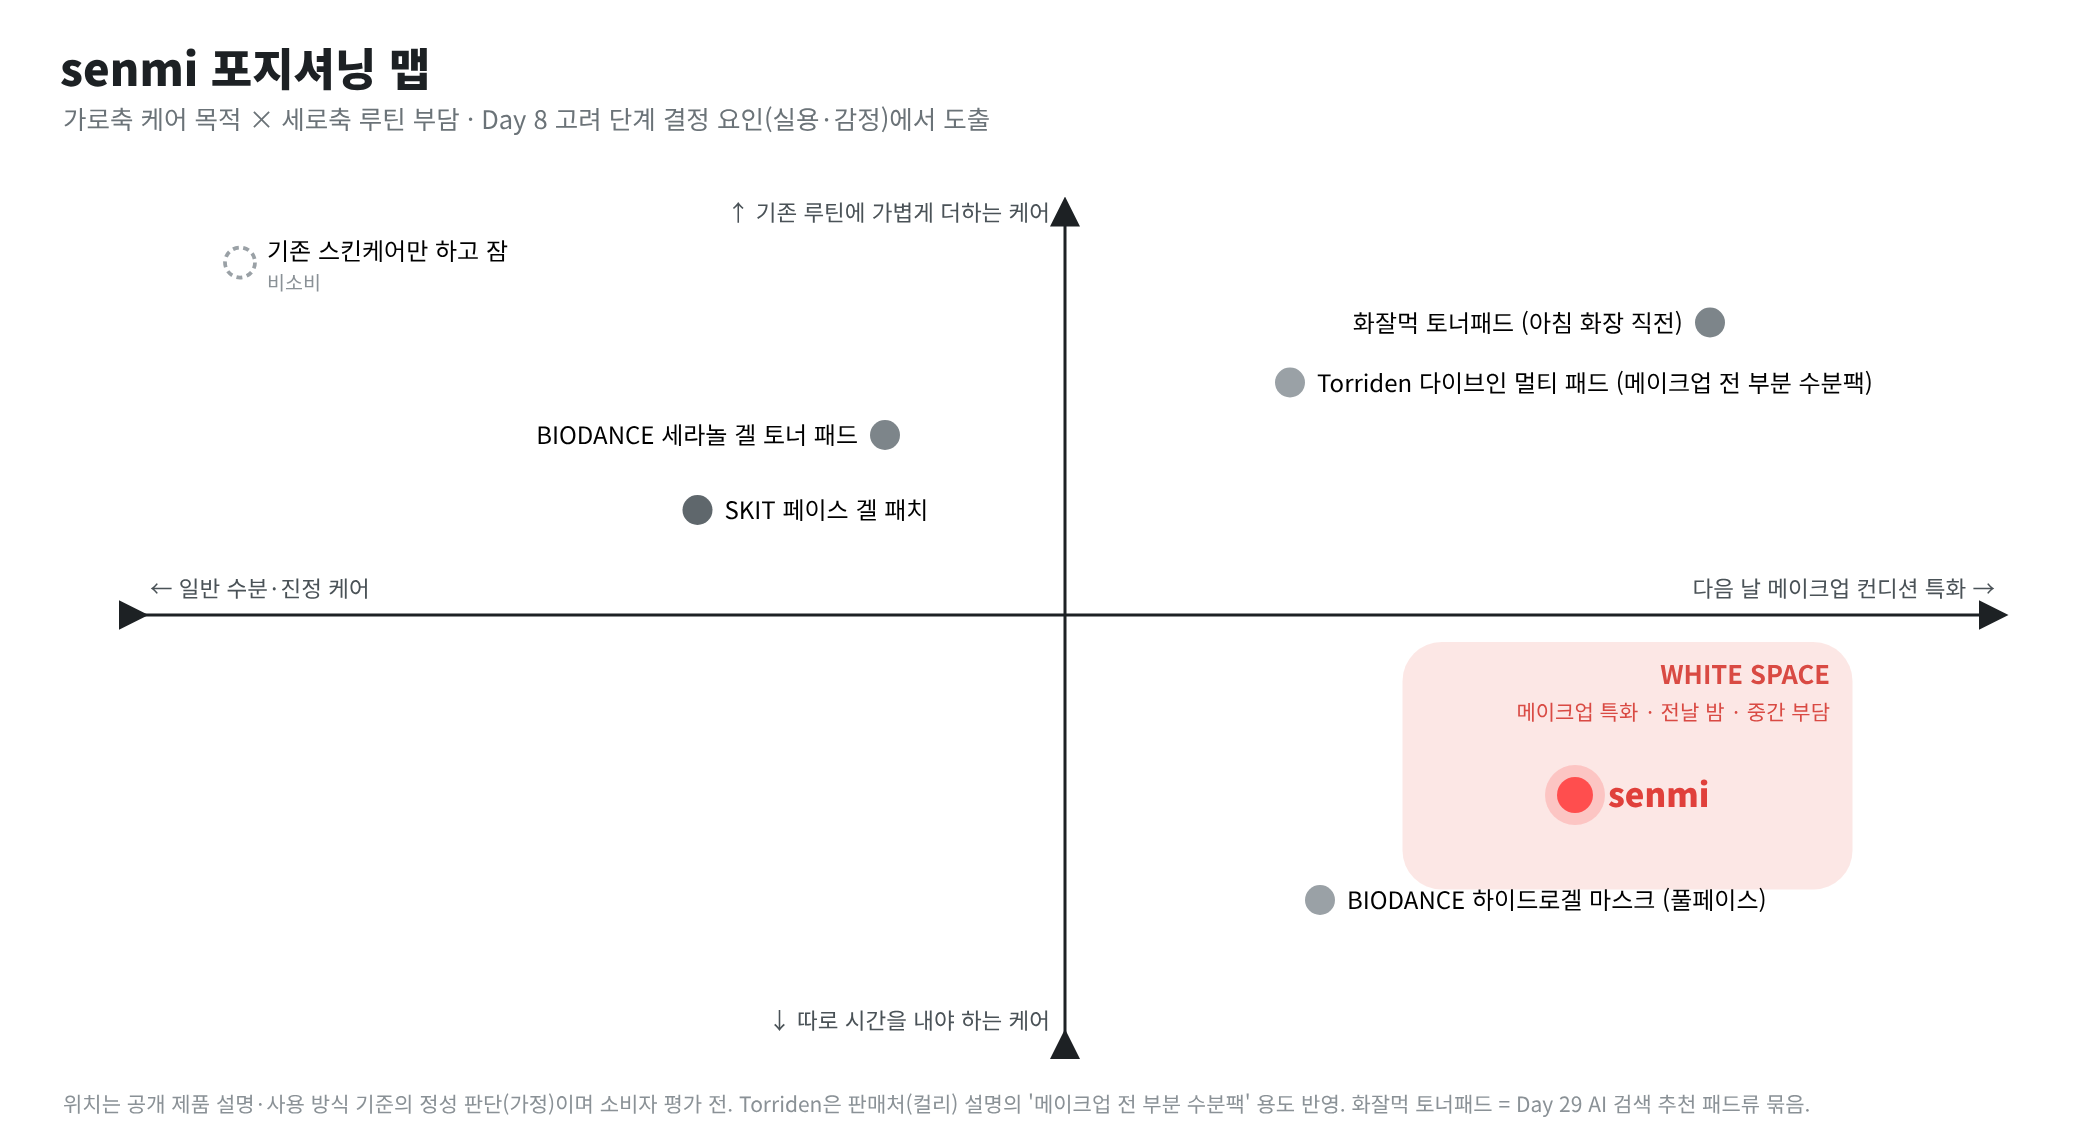
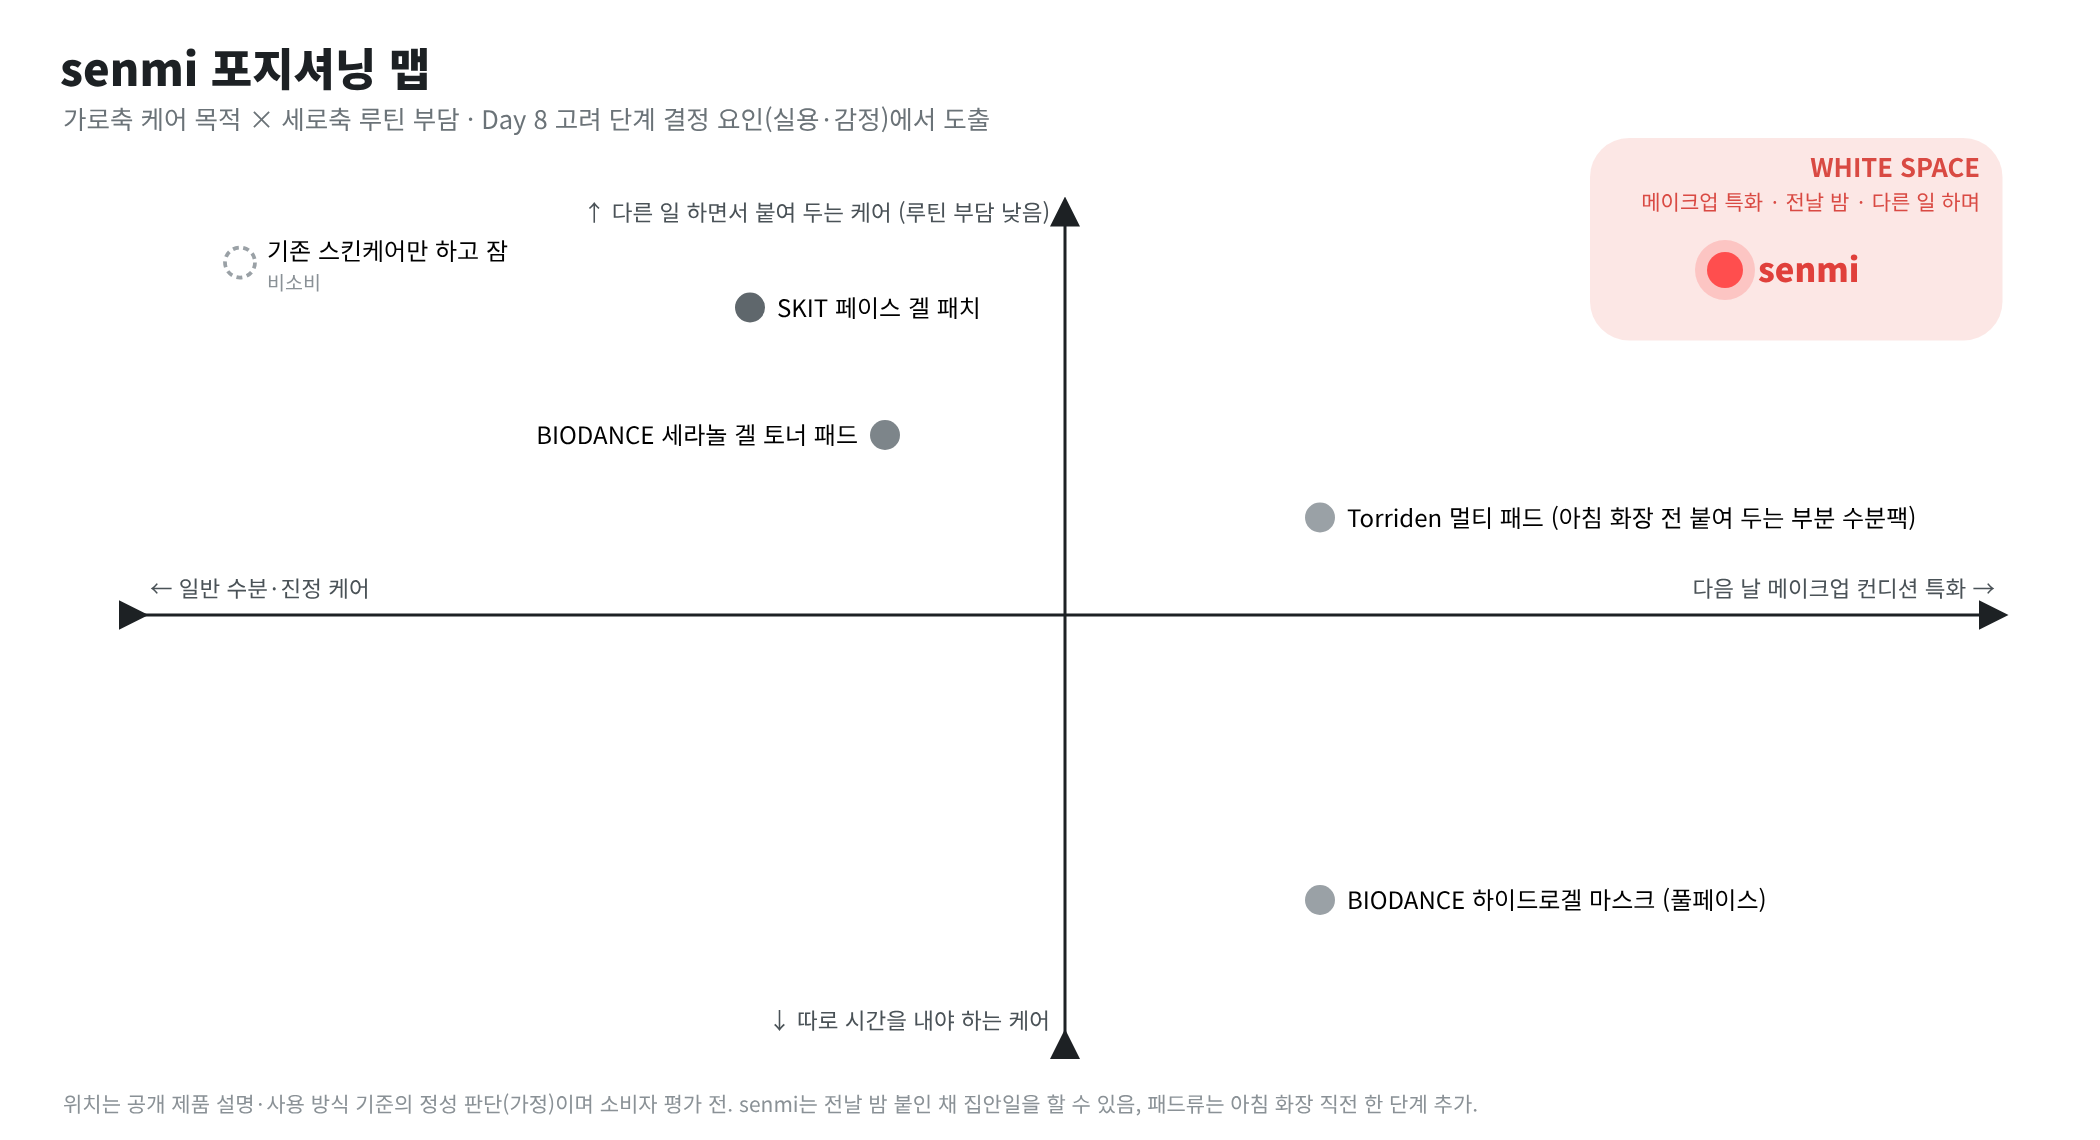
포지셔닝 맵 수정: senmi를 '다른 일 하면서 붙여 두는 케어'로, 화잘먹 토너패드 삭제
Claude-Session: https://claude.ai/code/session_01JFfxUvGL9TvTmYzRZbv8Pu

diff --git a/portfolio/index.html b/portfolio/index.html
@@ -75,7 +75,7 @@ th{background:#f5f6f7;font-weight:500}
 </div>
 <div class="row3">
  <div class="box s3"><b>결과</b><div>USP &quot;다음 날 화장 들뜸이 걱정되는 사람에게, 전날 밤 필요한 부위에만 붙여 아침 화장 전 수분 바탕을 미리 준비&quot; 확정 (고객 반응은 미측정)</div></div>
- <div class="box s3"><b>재분석</b><div>경쟁사를 맵에 올리니 화잘먹 패드·토리든이 &#x27;메이크업 준비&#x27; 용도와 겹침 → 차별점을 &#x27;아침 직전이 아니라 전날 밤&#x27;으로 좁힘. 효과 증거(후기·시험)가 없어 &#x27;진짜 효과 있나?&#x27; 장벽은 그대로</div></div>
+ <div class="box s3"><b>재분석</b><div>경쟁사를 맵에 올리니 토리든이 &#x27;메이크업 준비&#x27; 용도와 겹치지만 바쁜 아침에 한 단계가 늘어남 → 차별점을 &#x27;전날 밤, 집안일 하면서 붙여 두는 부담 없는 준비&#x27;로 좁힘. 효과 증거(후기·시험)가 없어 &#x27;진짜 효과 있나?&#x27; 장벽은 그대로</div></div>
  <div class="box s3"><b>다음 목표 예상</b><div>실사용 비교 콘텐츠로 고려 단계 이탈 줄이기</div></div>
 </div>
 <div class="ft"><span>한채은 · senmi</span><span>01</span></div></section><section class="page">
